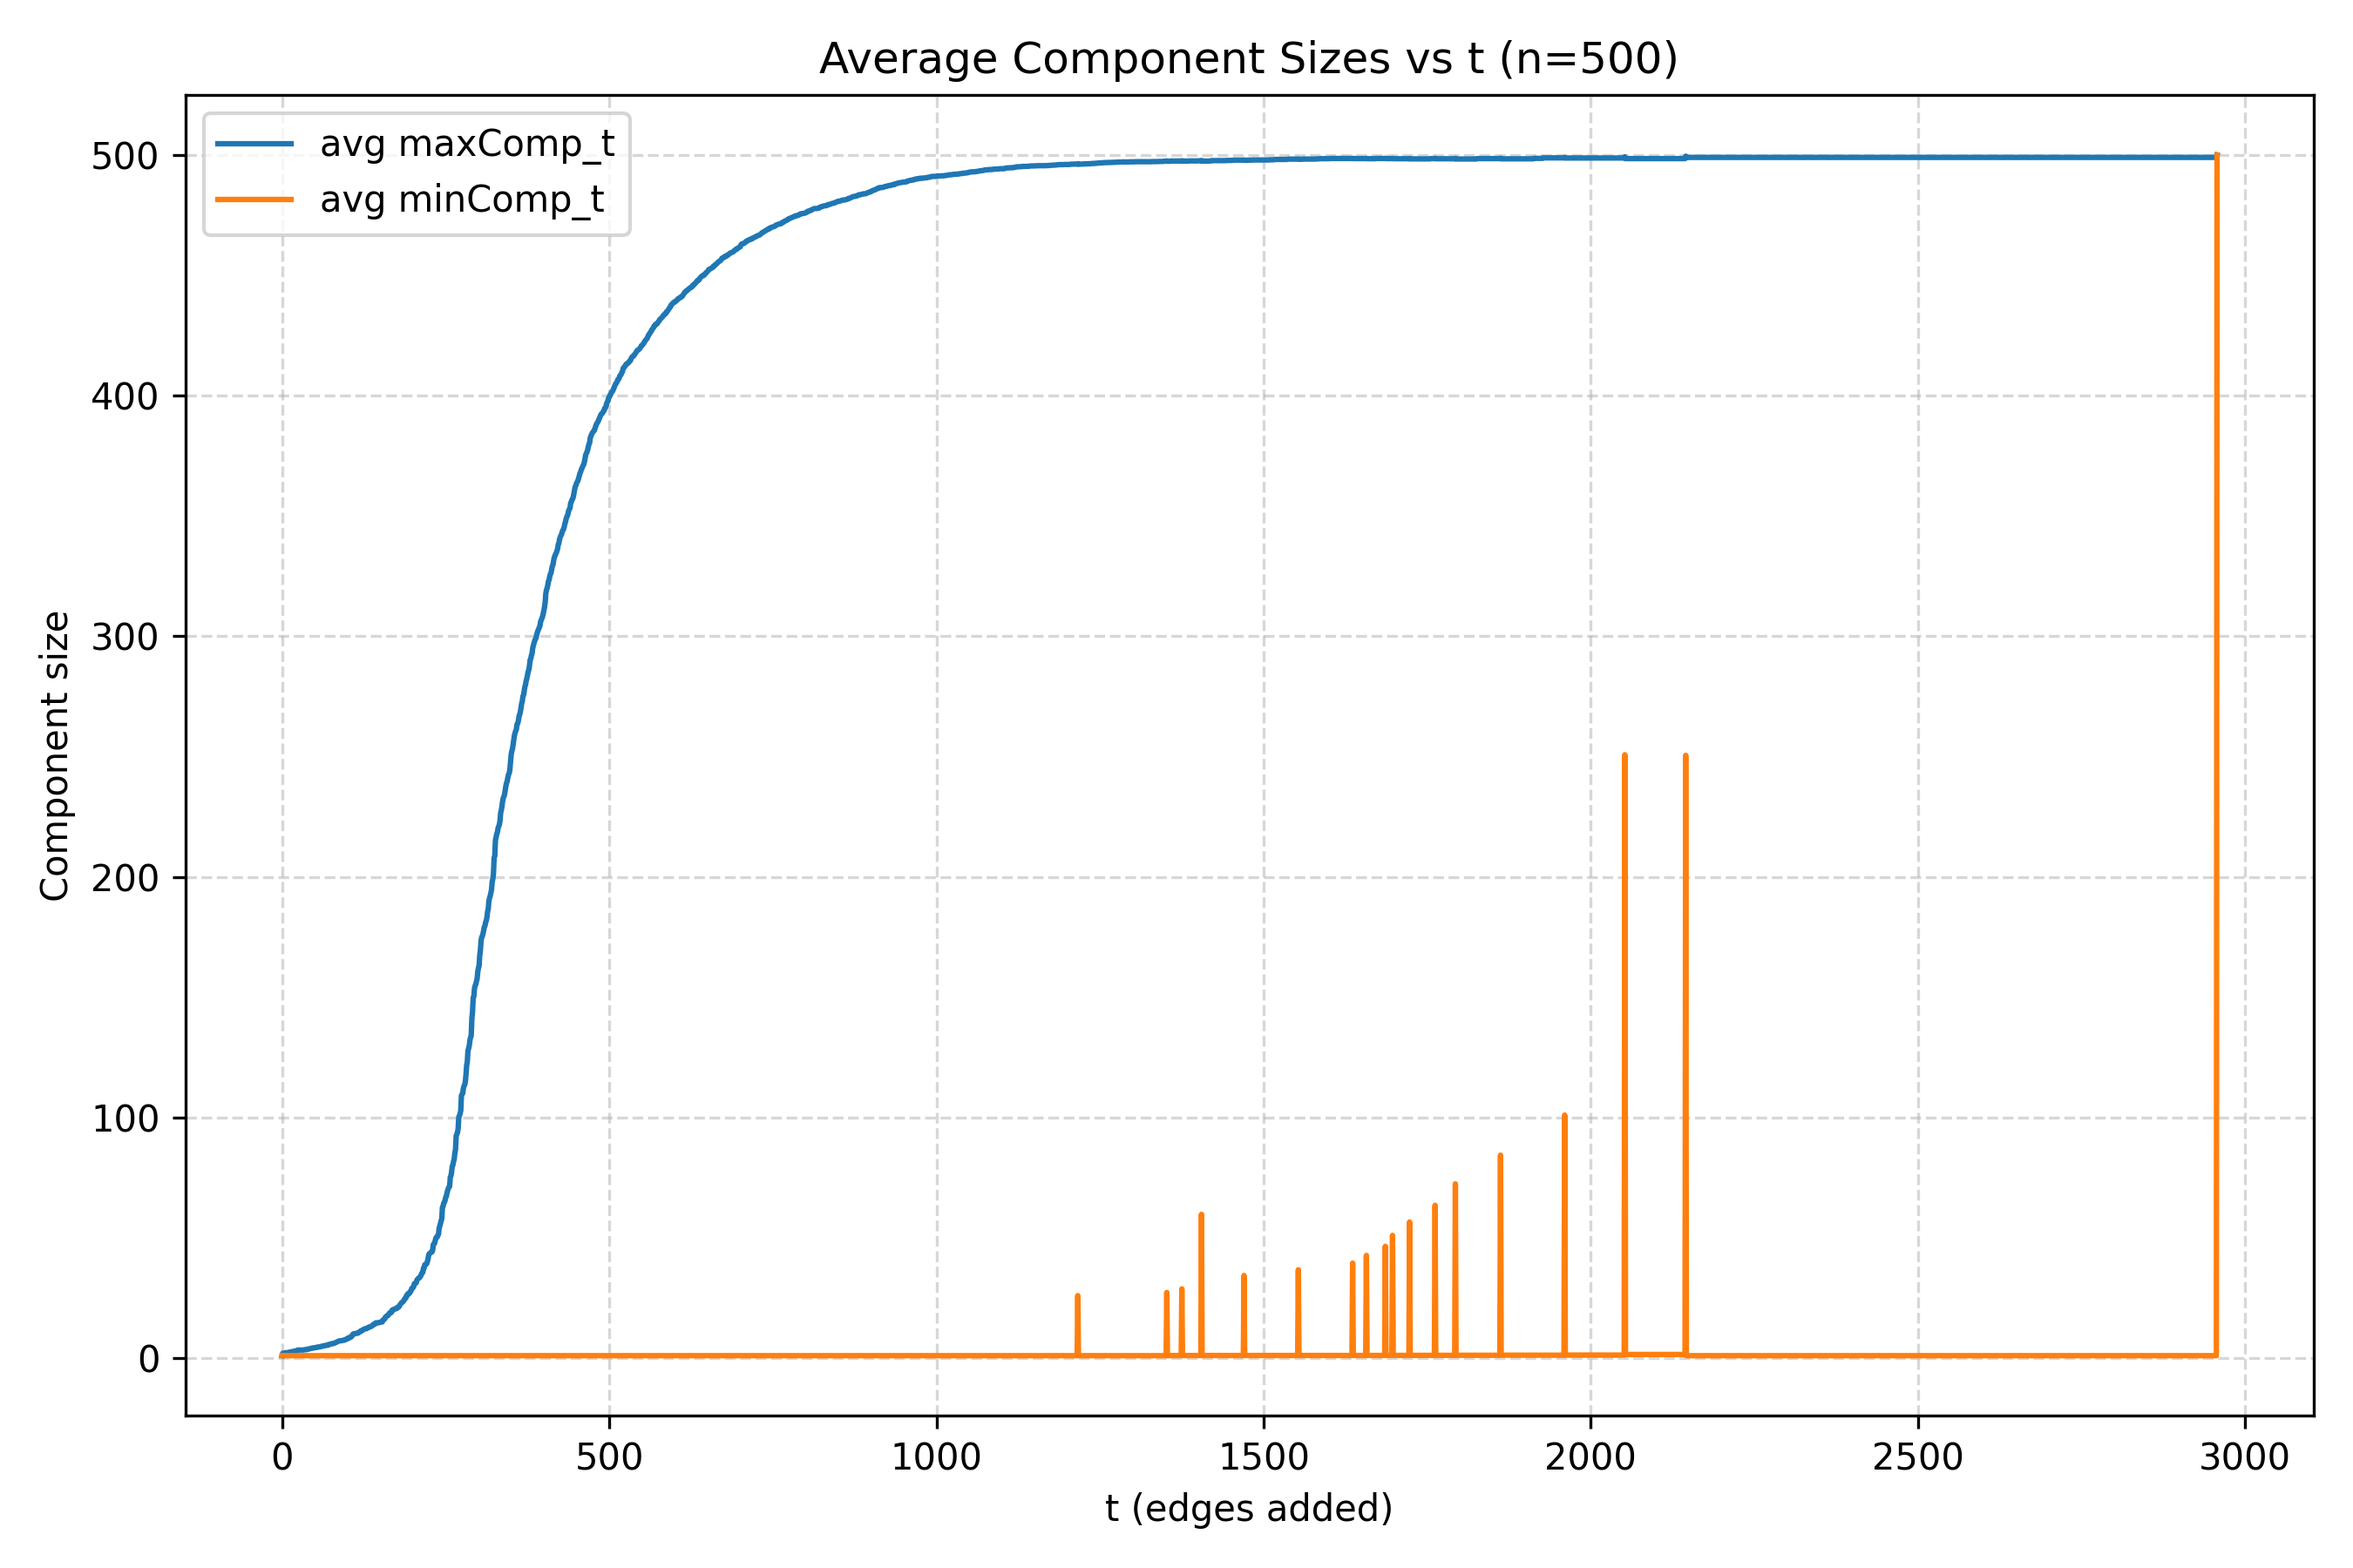
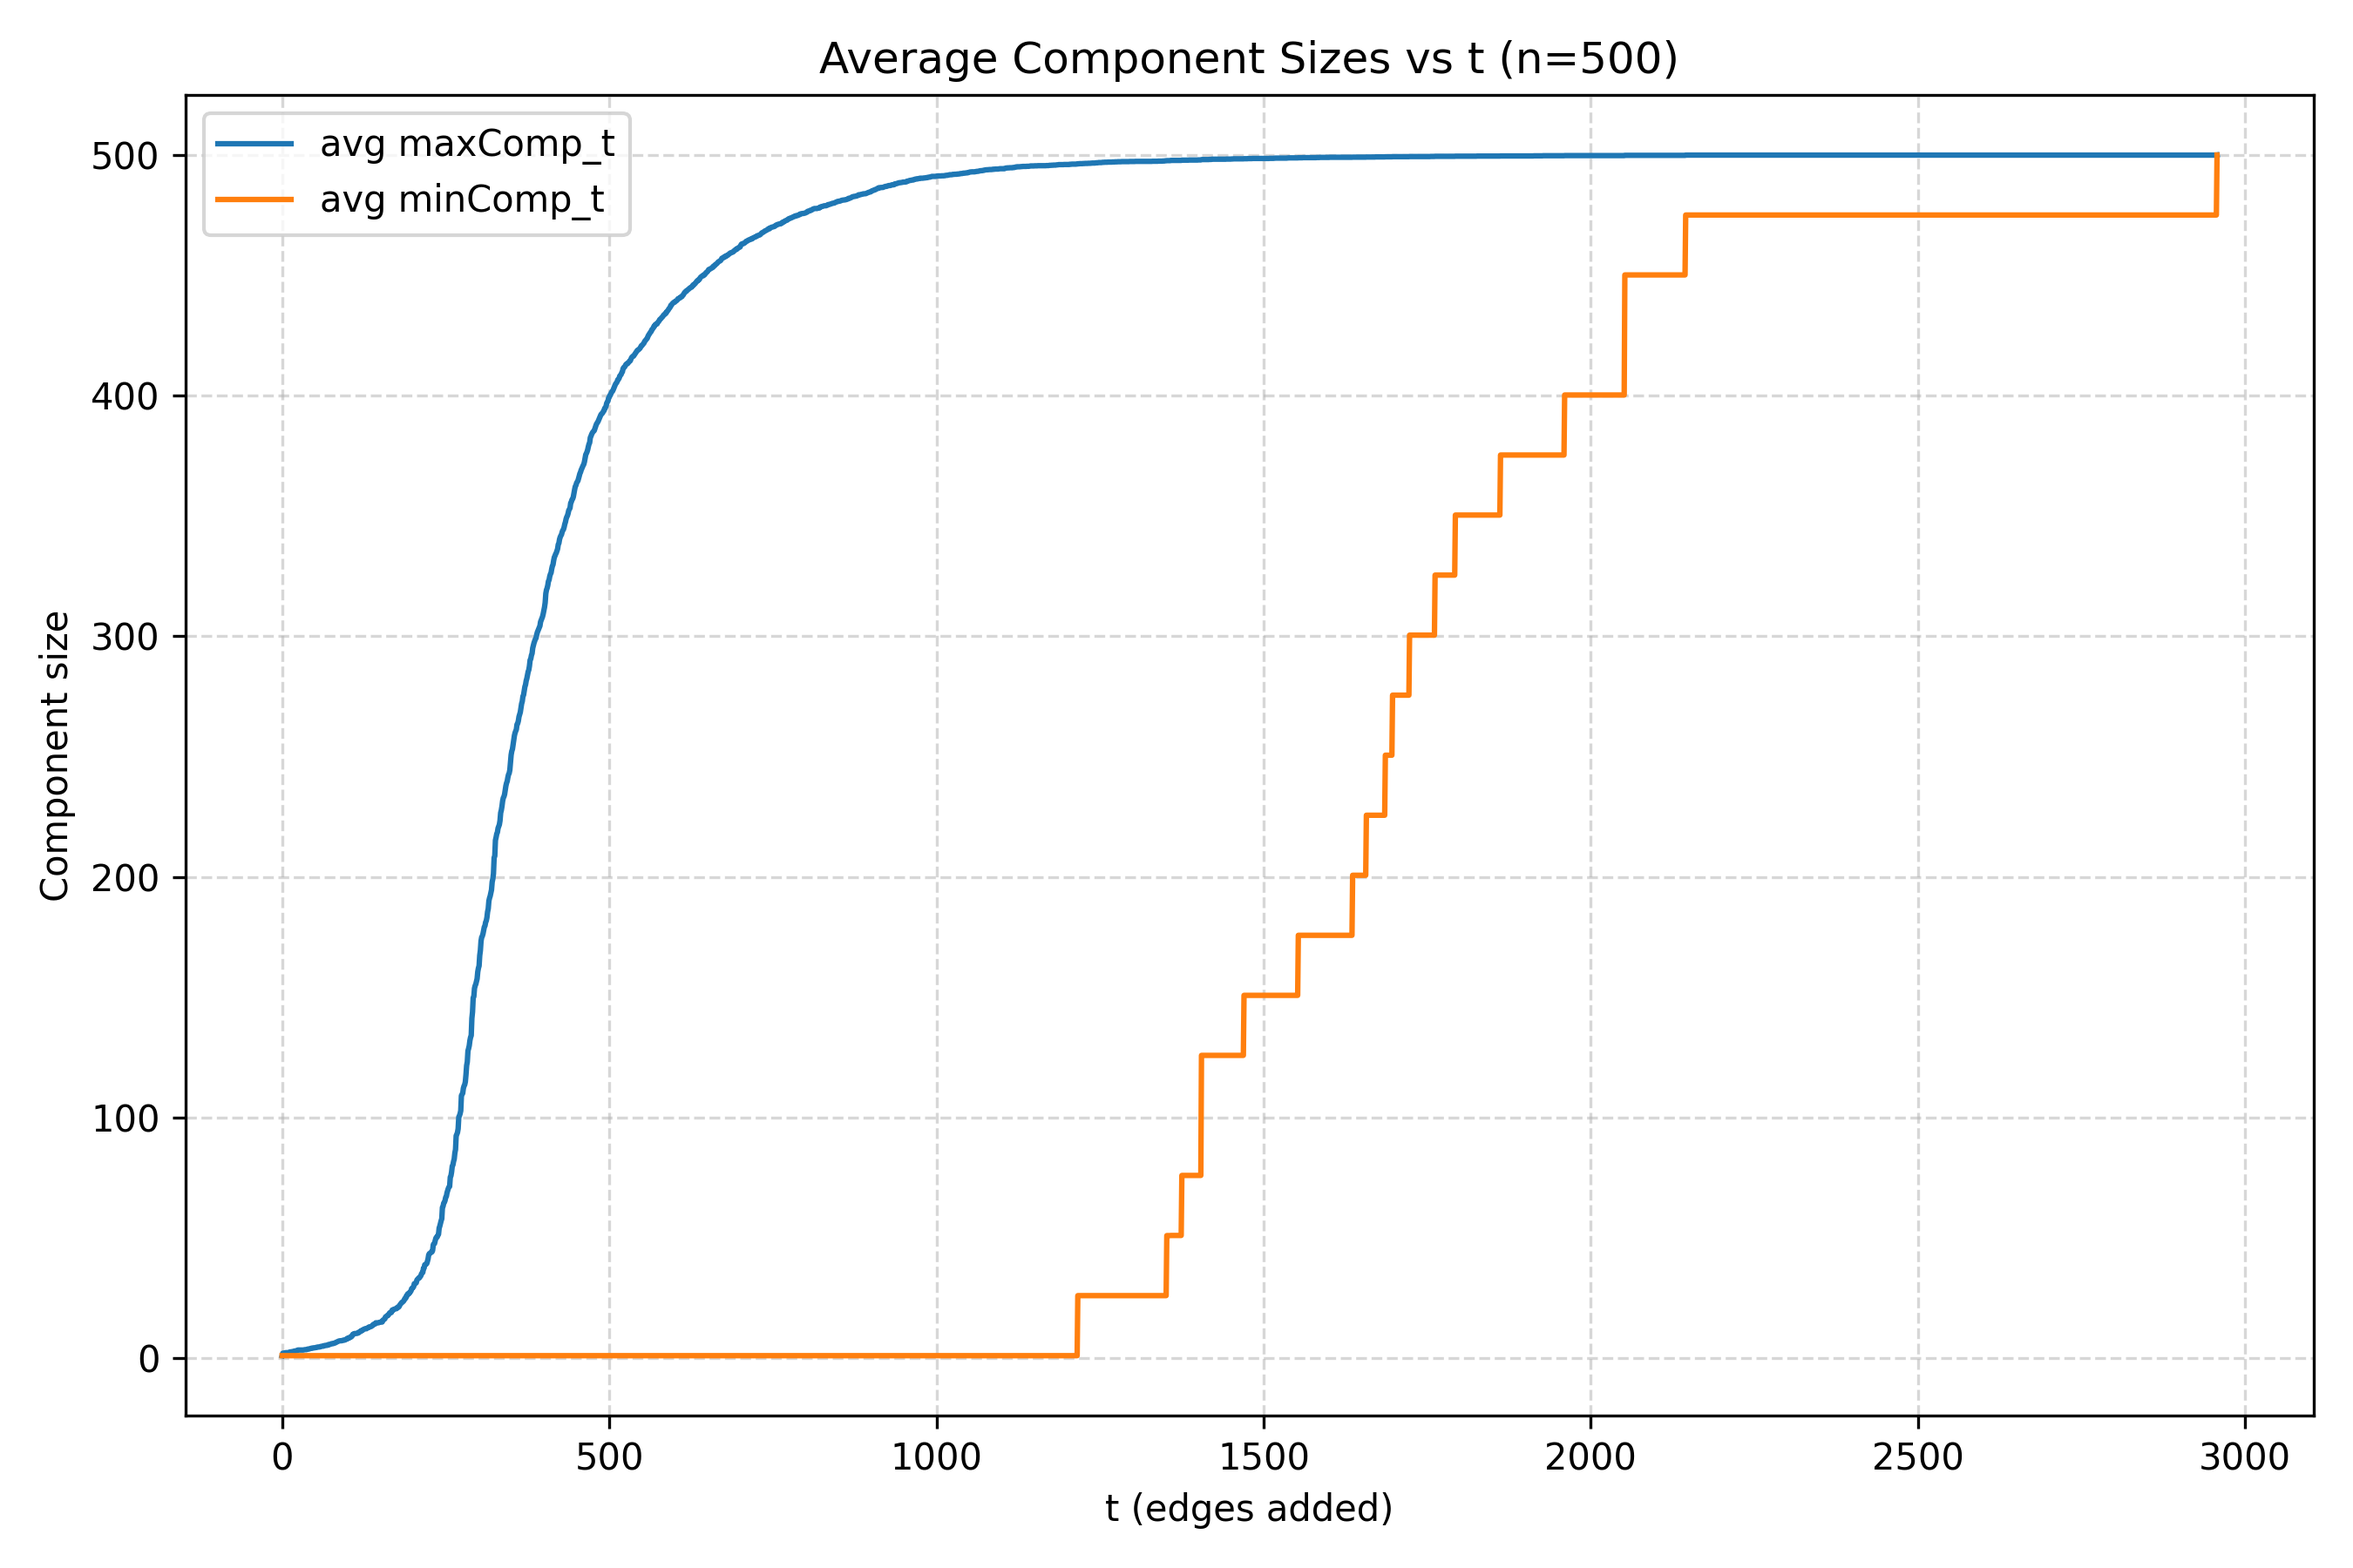
updating plots

diff --git a/uf.py b/uf.py
@@ -100,20 +100,39 @@ def run_experiments():
             tconn_vals.append(tconn / n if tconn is not None else np.nan)
             tnoiso_vals.append(tnoiso / n if tnoiso is not None else np.nan)
 
-        # compute average component sizes
+        # ---- compute average component sizes correctly ----
+        # max_len = max(len(run) for run in runs_max)
+        # min_avg = np.zeros(max_len)
+        # max_avg = np.zeros(max_len)
+        # counts = np.zeros(max_len)
+
+        # for minC, maxC in zip(runs_min, runs_max):
+        #     for i in range(len(maxC)):
+        #         min_avg[i] += minC[i]
+        #         max_avg[i] += maxC[i]
+        #         counts[i] += 1
+
+        # # divide only where counts > 0, leave NaN elsewhere to avoid plotting zeros
+        # min_avg = np.divide(min_avg, counts, out=np.full_like(min_avg, np.nan), where=counts>0)
+        # max_avg = np.divide(max_avg, counts, out=np.full_like(max_avg, np.nan), where=counts>0)
         max_len = max(len(run) for run in runs_max)
         min_avg = np.zeros(max_len)
         max_avg = np.zeros(max_len)
         counts = np.zeros(max_len)
 
         for minC, maxC in zip(runs_min, runs_max):
-            for i in range(len(maxC)):
-                min_avg[i] += minC[i]
-                max_avg[i] += maxC[i]
+            last_min, last_max = 1, 1  # initial values
+            for i in range(max_len):
+                if i < len(maxC):
+                    last_min = minC[i]
+                    last_max = maxC[i]
+                min_avg[i] += last_min
+                max_avg[i] += last_max
                 counts[i] += 1
 
-        min_avg /= np.where(counts == 0, 1, counts)
-        max_avg /= np.where(counts == 0, 1, counts)
+        # now divide to get average
+        min_avg = min_avg / counts
+        max_avg = max_avg / counts
 
         results[n] = {
             "min_avg": min_avg,
@@ -164,6 +183,7 @@ def run_experiments():
         plt.close()
 
     return results
+
 
 if __name__ == "__main__":
     run_experiments()
